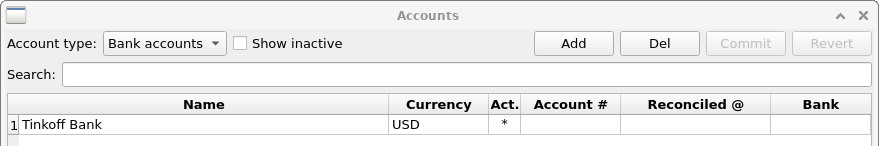
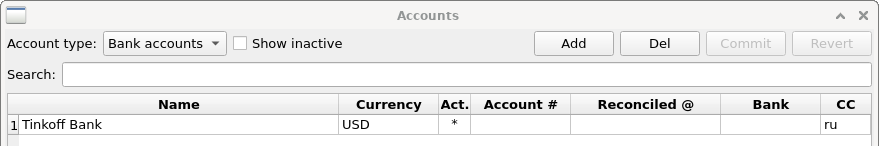
Sign was fixed for transfers import from IBKR flex-statement (remained negative while fields were changed to positive in Transfer transactions) Screenshots were updated for account creation in russian tax example.

diff --git a/jal/data_import/statements.py b/jal/data_import/statements.py
@@ -657,17 +657,18 @@ class StatementLoader(QObject):
             from_idx = 1
             to_idx = 0
             to_amount = trade['quantity']  # positive value
-            from_amount = trade['proceeds']  # already negative value
+            from_amount = -trade['proceeds']  # we use positive value in DB while it is negative in report
         elif trade['quantity'] < 0:
             from_idx = 0
             to_idx = 1
-            from_amount = trade['quantity']  # already negative value
+            from_amount = -trade['quantity']  # we use positive value in DB while it is negative in report
             to_amount = trade['proceeds']  # positive value
         else:
             logging.error(g_tr('StatementLoader', "Zero quantity in cash trade: ") + f"{trade}")
             return 0
         self.createTransfer(trade['dateTime'], trade['accountId'][from_idx], from_amount,
-                            trade['accountId'][to_idx], to_amount, trade['accountId'][2], trade['ibCommission'], trade['exchange'])
+                            trade['accountId'][to_idx], to_amount, trade['accountId'][2],
+                            trade['ibCommission'], trade['exchange'])
         return 1
 
     def createTransfer(self, timestamp, f_acc_id, f_amount, t_acc_id, t_amount, fee_acc_id, fee, note):
@@ -769,11 +770,11 @@ class StatementLoader(QObject):
             return 0
 
         if cash['amount'] >= 0:
-            self.createTransfer(cash['dateTime'], dialog.account_id, -cash['amount'],
+            self.createTransfer(cash['dateTime'], dialog.account_id, cash['amount'],
                                 cash['accountId'], cash['amount'], 0, 0, cash['description'])
         else:
             self.createTransfer(cash['dateTime'], cash['accountId'], cash['amount'],
-                                dialog.account_id, -cash['amount'], 0, 0, cash['description'])
+                                dialog.account_id, cash['amount'], 0, 0, cash['description'])
         return 1
 
     def createDividend(self, timestamp, account_id, asset_id, amount, note):
